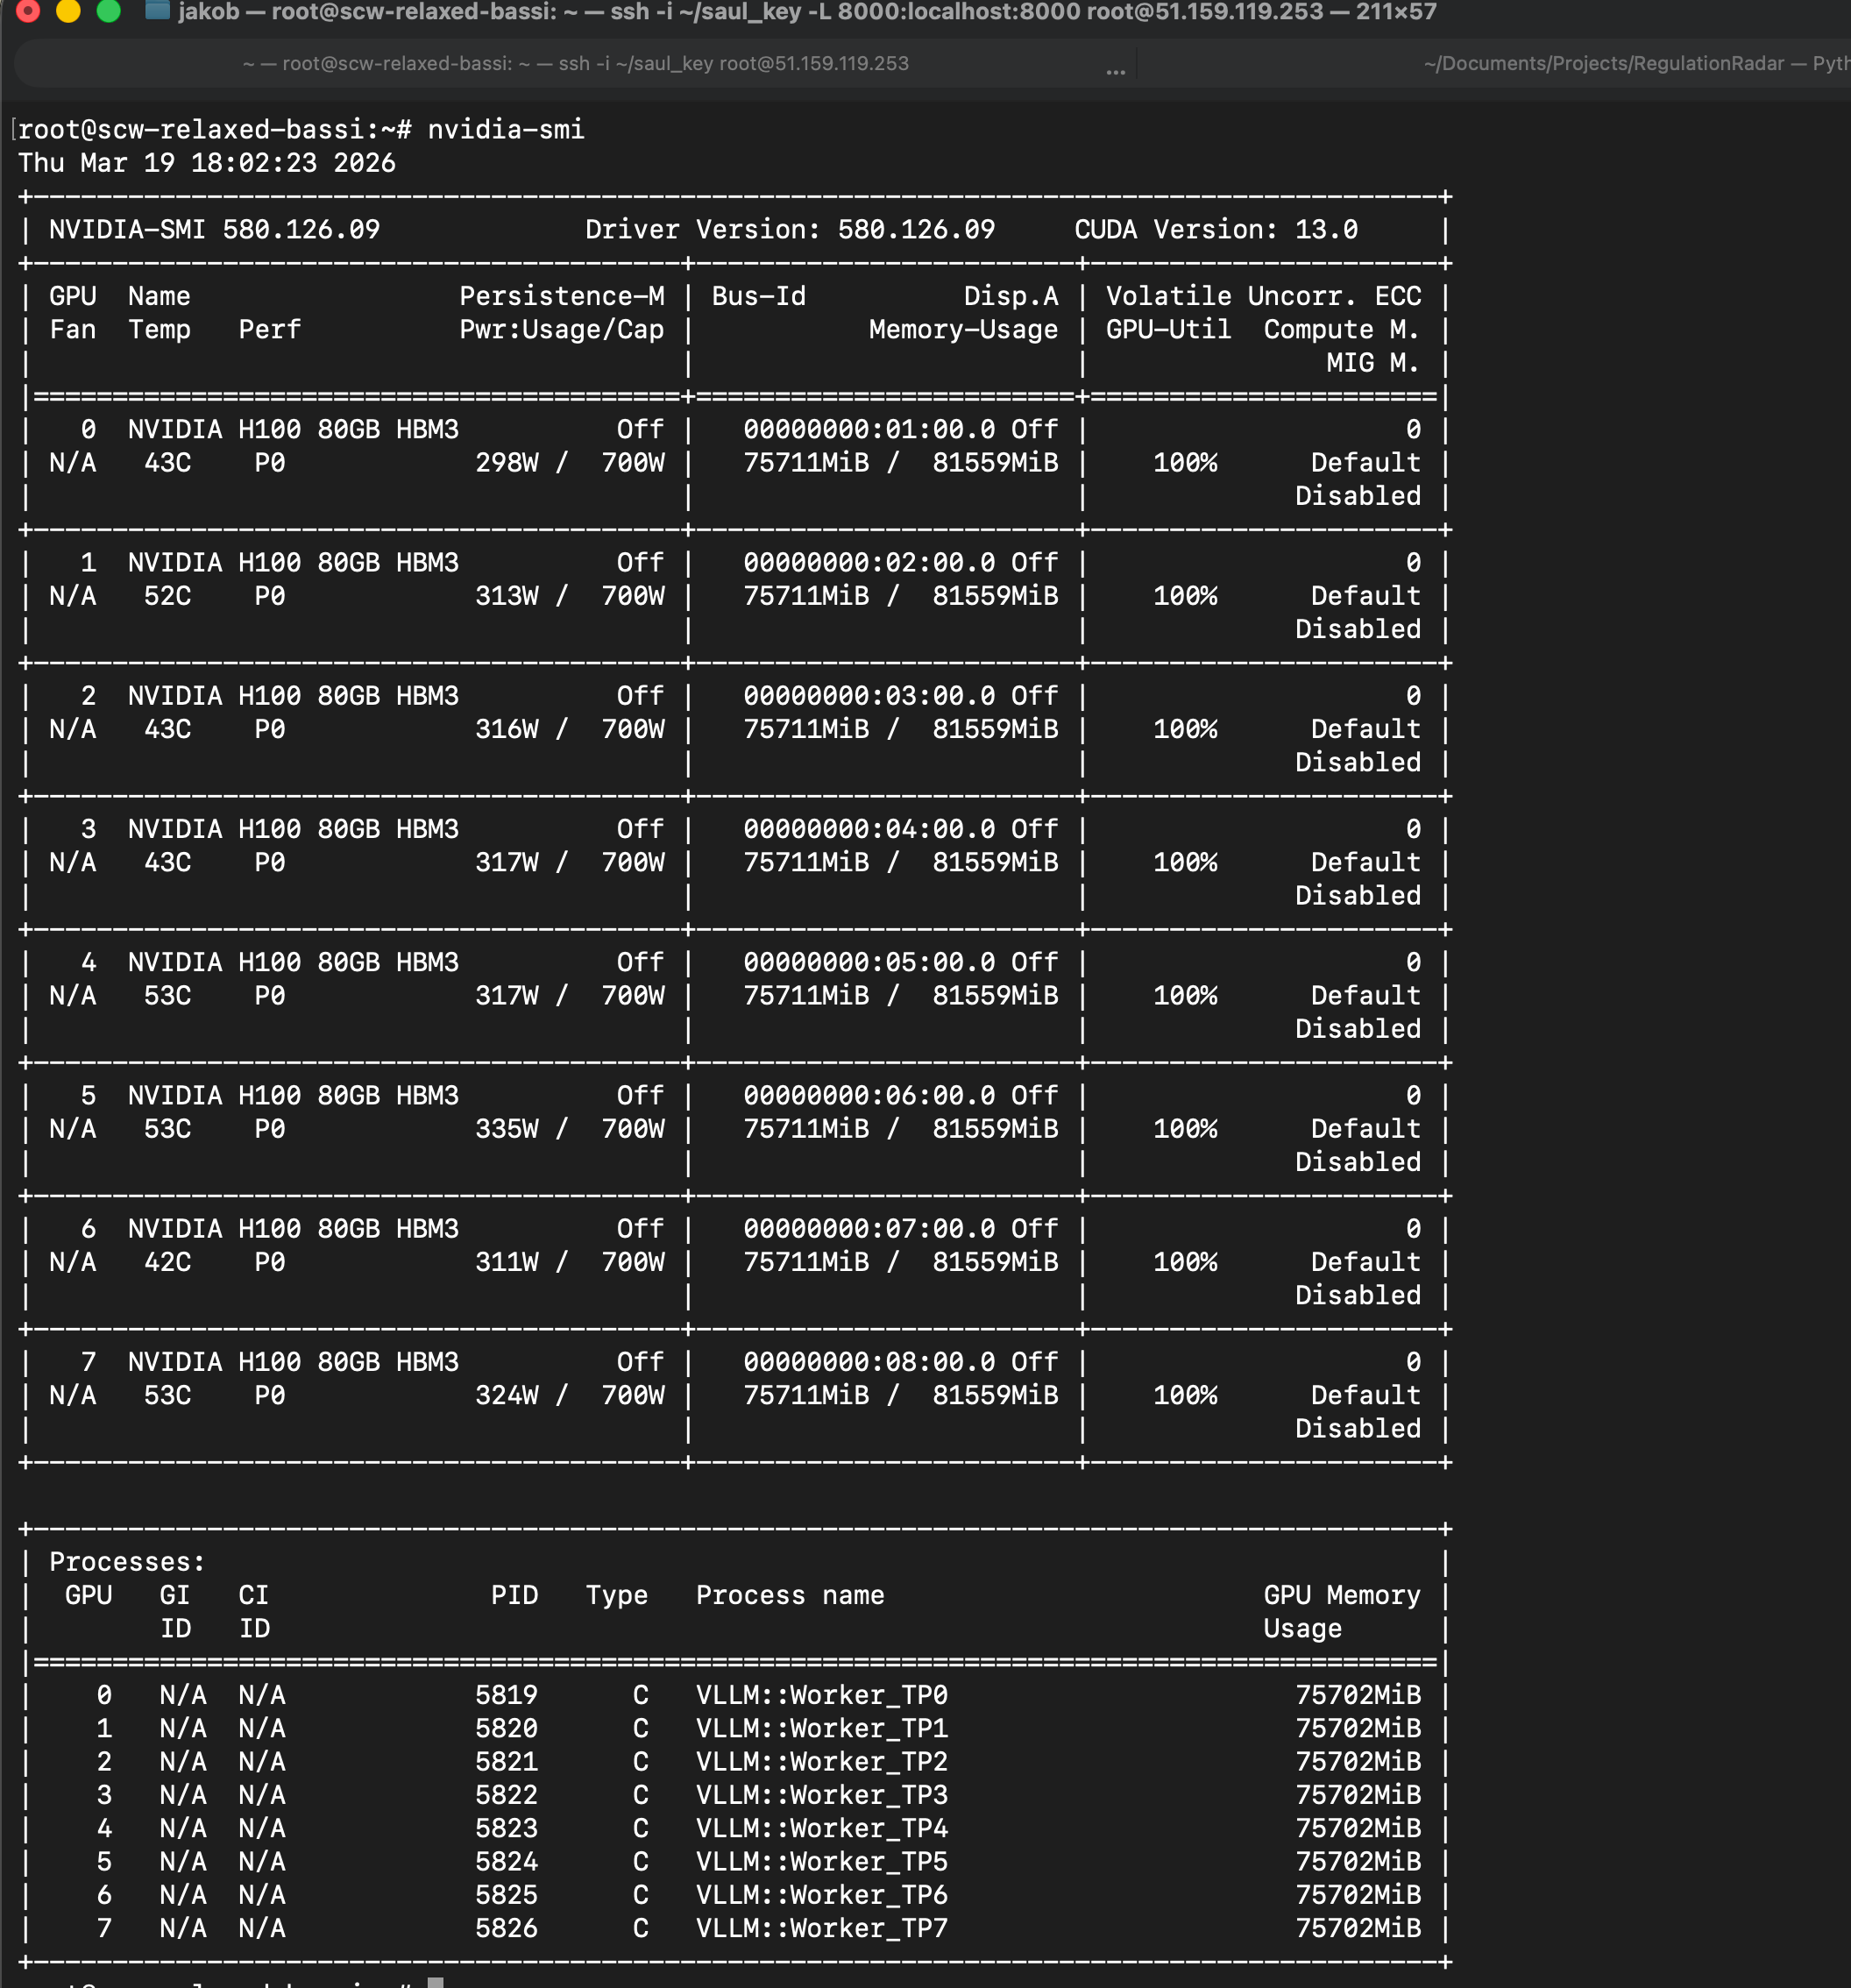
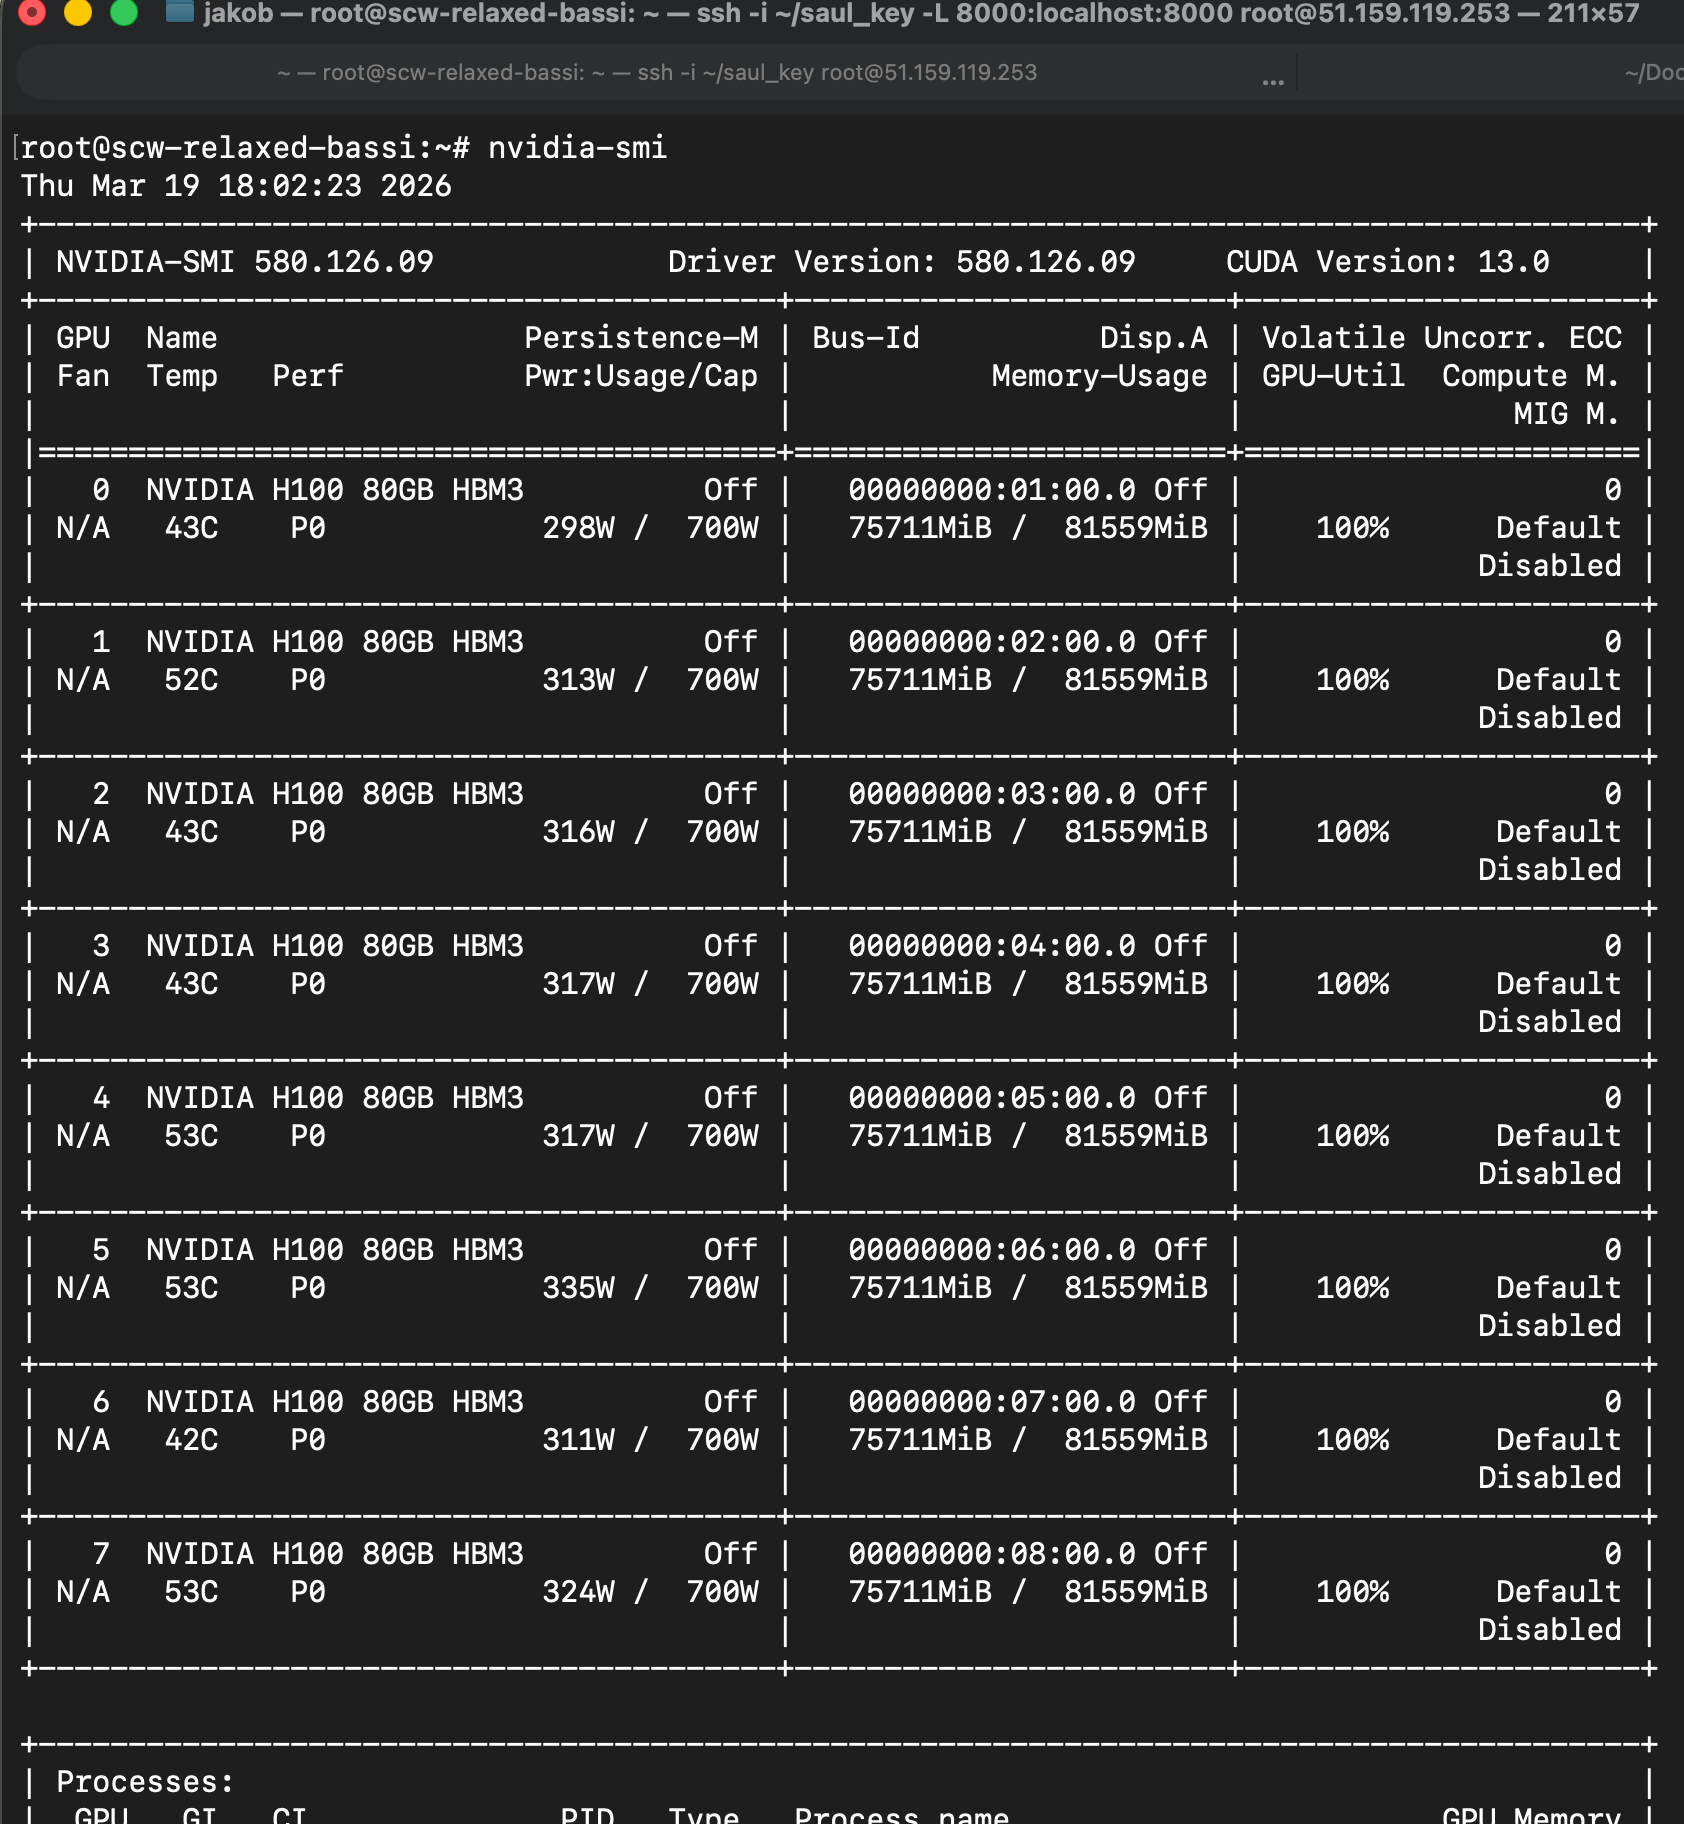
Regulation Radar: extensive article rewrite and new images
Restructure article with Alphaville tone throughout. Add SPARQL endpoint
and corpus screenshots. Rewrite Context, Off-the-Shelf, More Power,
Checking the Answer Key, and Where They Agree sections. Fix tags, links,
summary. Merge The Runs into previous section. Shorten So What.

diff --git a/src/content/notes/regulation-radar.md b/src/content/notes/regulation-radar.md
@@ -1,35 +1,38 @@
 ---
 title: "Regulation Radar: What Four LLMs Made of 890 EU Laws"
-summary: "The EU published 890 regulations in six months. Five million words. Professional librarians have been classifying them since 1995. We pointed four language models at the same pile – one running on a MacBook Air, three on eight Nvidia H100 GPUs – and checked their homework against the humans.<br><br><strong>Not a single regulation was classified the same way by all four models.</strong> But a 70B reasoning model that pauses to think before answering outperformed a 141B legal specialist trained specifically on law.<br><br>The biggest model was not the best. The most confident were not the most correct. And when the models did agree, they were usually right."
+summary: "The EU published 890 pieces of binding legislation in six months – over five million words of regulations, decisions, and directives. We pointed four language models at the pile and checked their classifications against the human librarians who have been tagging EU law since 1995.<br><br>Not one regulation was classified identically by all four models. A 70B reasoning model that pauses to think before answering outperformed a 141B legal specialist trained specifically on law. <strong>The biggest model was not the best, and the most confident were not the most correct.</strong><br><br>But when the models did agree with each other, they tended to <strong>agree with the humans too</strong> – which turned out to be the more interesting finding."
 date: "March 2026"
 published: 2026-03-20
 tags: ["eu-regulation", "cloud-gpu", "document-classification", "model-disagreement", "reasoning-models"]
-stack: ["Anthropic API", "EuroLLM-22B", "SaulLM-7B", "SaulLM-141B", "DeepSeek-R1:671B"]
+stack: ["EUR-Lex", "Anthropic API", "EuroLLM:22B", "SaulLM:141B", "DeepSeek-R1:671B"]
 ---
 
 ## Quick Brief
 
 - **Experiment:** Four open-source LLMs read 890 EU regulations and classified them by thematic domain and regulatory impact – one on a MacBook Air, three on eight Nvidia H100 GPUs on a rented machine in Paris, no external API involved. Where possible, results were compared against EuroVoc, the EU's own classification system.
-- **Why it matters:** LLMs can read regulation. That was never really in question. What actually matters is whether their output is consistent enough to act on, and what happens when you check it against human judgement.
-- **Key finding:** A reasoning model half the size of a legal specialist produced better classifications. On most regulations, the models agreed on the core subject – but not one was classified identically by all four. When they did agree, their accuracy against the human baseline went up. When they didn't, you needed a person.
+- **Why it matters:** The fact that LLMs can read regulation was never really in question. What actually matters is whether their output is consistent enough to act on – and what happens when you check it against human judgement.
+- **Key finding:** A 70B reasoning model that pauses to think before answering outperformed a 141B legal specialist trained specifically on law. On most regulations, the models agreed on the core subject – but not one was classified identically by all four. When they did agree, accuracy against the human baseline went up. When they didn't, a human in the loop becomes advisable.
 
 ## Context
 
 The neat thing about bureaucracies is that they produce vast amounts of structured text. Which, in theory, should make them ground zero for language models.
 
-In the six months to March 2026, the European Union published **890 pieces of binding legislation.** Over five million words of regulations, decisions, and directives – roughly ten times the length of *War and Peace*, published in six months.
+In the six months to March 2026 (17 September to 17 March, to be precise), the European Union published **890 pieces of binding legislation.** Over five million words of regulations, decisions, and directives – roughly ten times the length of *War and Peace*, published in half a year.
 
 Somebody has to read all of that.
 
-Every one of these 890 regulations is publicly available through <a href="https://eur-lex.europa.eu/content/welcome/about.html" target="_blank">EUR-Lex</a> – well-known to EU legal practitioners and largely invisible to everyone else. A <a href="https://publications.europa.eu/webapi/rdf/sparql" target="_blank">SPARQL endpoint</a> lets you query legislation like a database. A bulk download API called <a href="https://op.europa.eu/en/web/cellar" target="_blank">CELLAR</a> delivers full texts programmatically, in all 24 official EU languages, with structured metadata attached. It is, essentially, a very well-organised government filing cabinet with an API.
+All EU legislation is publicly available through <a href="https://eur-lex.europa.eu/content/welcome/about.html" target="_blank">EUR-Lex</a> – well-known to EU legal practitioners and largely invisible to everyone else. A <a href="https://publications.europa.eu/webapi/rdf/sparql" target="_blank">SPARQL endpoint</a> lets you query legislation like a database. A bulk download API called <a href="https://op.europa.eu/en/web/cellar" target="_blank">CELLAR</a> delivers full texts programmatically, in all 24 official EU languages, with structured metadata attached. A very well-organised government filing cabinet with an API.
 
-But a filing cabinet is only useful if you know what is in it. The EU doesn't just publish legislation – it **tags** it. Every regulation gets classified using <a href="https://op.europa.eu/en/web/eu-vocabularies/concept-scheme/-/resource?uri=http://eurovoc.europa.eu/100141" target="_blank">EuroVoc</a>, a controlled vocabulary of roughly 7,000 terms organised into **21 top-level thematic domains** – "Agriculture", "Trade", "Finance", "Energy", and so on. The tagging is done by professional librarians at the Publications Office, and has been running since 1995.
+![The EU's SPARQL endpoint – a query interface for legislation](/images/regulation-radar-sparql.png)
+*The filing cabinet. With an API.*
 
-A <a href="/notes/better-call-saullm" target="_blank">previous experiment</a> asked six models to classify ambiguous legal documents. They disagreed extensively – but there was no ground truth to grade against. This time, the librarians provided one. Sort of. EuroVoc classifications are derived – granular descriptors rolled up to 21 top-level domains – so the mapping is not always clean. But it is structured, consistent, and publicly available. Considerably better than no benchmark at all.
+But a filing cabinet is only useful if you know what is in it. Therefore, the EU doesn't just publish legislation – it **tags** it. Every regulation gets classified using <a href="https://op.europa.eu/en/web/eu-vocabularies/concept-scheme/-/resource?uri=http://eurovoc.europa.eu/100141" target="_blank">EuroVoc</a>, a controlled vocabulary of roughly 7,000 terms organised into **21 top-level thematic domains** – "Agriculture", "Trade", "Finance", "Energy", and so on. The tagging is done by professional librarians at the Publications Office, and has been running since 1995.
 
-890 regulations, a public taxonomy, and a human baseline to grade against. The conventional approach to regulatory monitoring is to give the documents to a junior associate, who reads them, highlights the important bits, and has ChatGPT open in a second tab. The unconventional approach is to notice that **the filing cabinet already has an API** – and that language models can read. You do not put a steam engine on a horse. You build a railway.
+A <a href="/notes/better-call-saullm" target="_blank">previous experiment</a> asked six models to classify ambiguous legal documents. They disagreed extensively – but there was no ground truth to grade against. This time, the librarians provided one, sort of – they tag each regulation with specific terms from EuroVoc's ~7,000 concept vocabulary, and those terms sit within a fixed hierarchy that maps them to the 21 top-level domains. The models were asked to pick domains directly. So the comparison is not quite apples to apples, but it is structured, consistent, and publicly available, which is considerably better than no benchmark at all.
 
-## The Pipeline
+The conventional approach to regulatory monitoring is to give the documents to a compliance officer, who reads them, asks ChatGPT which parts matter, and writes a summary (also with ChatGPT). The unconventional approach is to notice that **the filing cabinet already has an API** – and that language models can read. You do not put a steam engine on a horse. You build a railway.
+
+## The Railway
 
 Before any model reads anything, the data needs to arrive. The pipeline works in stages.
 
@@ -39,46 +42,47 @@ Before any model reads anything, the data needs to arrive. The pipeline works in
 
 **Stage 3: Classify.** Each regulation gets **two prompts.** The <a href="/classify-sectors.txt" target="_blank">first</a> asks the model to assign the document to one or more of the 21 EuroVoc domains – the thematic "what is this about?" question. The <a href="/classify-impact.txt" target="_blank">second</a> asks for an **impact assessment**: is this ROUTINE (an administrative amendment nobody outside a specific agency will notice), MODERATE (new requirements for a specific sector), or HIGH (significant new obligations across multiple sectors, major compliance deadlines – on the scale of an AI Act or GDPR)?
 
-**Stage 4: Route.** A deliberate system design choice. If a regulation is classified as **HIGH impact**, the pipeline does not just log it and move on. For the genuinely important regulations – the ones a compliance team would actually need to read – you want the best available model writing the briefing, not the cheapest one. So the system immediately routes that regulation to **Claude Sonnet** via the Anthropic API for a detailed editorial summary: what the regulation does, who is affected, what the deadlines are, and what the worst-case consequence looks like. (Claude Sonnet's exact parameter count and infrastructure are not public – it is a frontier model running on Anthropic's hardware, not something you replicate on a rented GPU cluster.) The cheap open-source model does triage on all 890 documents. The expensive frontier model only sees the ~15 that matter. **95% cost savings** versus routing everything through Claude.
+**Stage 4: Route.** If a regulation is classified as **HIGH impact**, the pipeline does not just log it and move on – it routes the document to **Claude Sonnet** via the Anthropic API for a detailed editorial summary: what the regulation does, who is affected, what the deadlines are, and what the worst-case consequence looks like. For the genuinely important regulations, you want the best available model writing the briefing, not the cheapest one. (We publish all hardware specs with utmost transparency. Anthropic does not.)
+
+In practice, the open-source models classified between 1 and 30 regulations as HIGH out of 890 – so roughly 1–3% of the corpus gets routed to the expensive model, with the cheap one handling the other 97–99%. The cost difference is not trivial.
 
 ![Pipeline: fetch, download, extract, classify domain, classify impact, route HIGH to Claude, evaluate](/images/regulation-radar-pipeline.svg)
-*The pipeline from query to classified corpus. The model is a swappable component – same pipeline, different model, different results.*
+*From SPARQL query to classified regulation. Swap the model, keep everything else.*
 
-The experiment: run this pipeline with **four different models** at the classification stage. Same 890 regulations, same two prompts, same routing logic. Then compare – with the humans, and with each other.
+The experiment: run this pipeline with **four different models** at the classification stage. Same 890 regulations, same two prompts, same temperature (0.1), same routing logic. Then compare – with the humans, and with each other.
 
 ## The Off-the-Shelf Option
 
-If you are going to build a system like this, the dream is running it in real time. A regulation gets published, the pipeline picks it up, and a classified, assessed, briefed result appears in seconds. No cloud costs, no data leaving the machine, no vendor dependency.
+Imagine this: a regulation gets published, and before you have finished your coffee, the pipeline has picked it up, classified it, assessed its impact, and produced a briefing – all on a laptop, no cloud costs, no data leaving the building.
 
-The constraints of a consumer machine make that dream distant. An Apple MacBook Air with **16 GB of unified memory** can realistically run models up to about 7 billion parameters in quantised form. That rules out anything above the small end of the model spectrum.
+That requires a model that actually fits on a laptop. An Apple MacBook Air with **16 GB of unified memory** can realistically run models up to about 7 billion parameters in quantised form, which rules out anything above the small end of the model spectrum. But small is still something.
 
-Since we are dealing with legal text, the choice fell on an old acquaintance: <a href="https://huggingface.co/papers/[phone redacted]" target="_blank">**SaulLM-7B**</a>, a legal-domain model fine-tuned on court rulings and legislative text. It is the smaller sibling of the 54B model from the <a href="/notes/better-call-saullm" target="_blank">previous experiment</a> – the one that needed an H100 to run. This one fits on a laptop.
+Since we are dealing with legal text, the choice fell on an old acquaintance: <a href="https://huggingface.co/papers/[phone redacted]" target="_blank">**SaulLM-7B**</a>, a legal-domain model fine-tuned on court rulings and legislative text. It is the smaller sibling of the 54B model from the <a href="/notes/better-call-saullm" target="_blank">previous experiment</a> – the one that needed an H100 to run. This one fits on a laptop. <a href="https://ollama.com/" target="_blank">**Ollama**</a> serves the model as a local API, using the M3's integrated GPU via Metal for inference.
 
-The local setup uses the same components as the previous experiments: <a href="https://ollama.com/" target="_blank">**Ollama**</a> handles model management and serves the model as a local API. On Apple Silicon, it uses **Metal** for GPU acceleration – the M3's integrated GPU, not just the CPU. The model is a swappable component in the pipeline: same code, same prompts, different model running underneath. The bottleneck is the model doing inference on the GPU, not RAM or CPU.
+![890 regulations downloaded and ready for classification](/images/regulation-radar-corpus.png)
+*890 regulations, downloaded and waiting. Each one gets two prompts – domain and impact.*
 
-It took **15 hours and 41 minutes.** Roughly one minute per regulation: read the preamble, classify by domain, assess impact, return a structured JSON response. 1,780 prompts total. Thirty watts.
+890 regulations, two prompts each, fed through a 7B model on a laptop. It took **15 hours and 41 minutes** to get through all 1,780 prompts – roughly one minute per regulation to read the preamble, classify by domain, assess impact, and return a structured JSON response. You start it before bed, and by morning the laptop has opinions about 890 pieces of EU legislation.
 
-That is slow enough that you would not want to sit and watch it, and fast enough that you can leave it running overnight and have results in the morning. But the real question is not speed – it is whether the results are any good. We will get to that shortly.
+Turns out, just because a MacBook Air *can* run a language model on EU legislation overnight does not mean it *should.*
 
-SaulLM-7B classified **30 regulations as HIGH impact** – more than any other model would. It rated 83% as MODERATE. Only 12% as ROUTINE. It produced 11 parse errors – documents where the model returned something other than valid JSON.
+Classifying hundreds of regulations at once – the actual use case for a regulatory monitoring system – requires something substantially more powerful than what fits in a laptop.
 
-The MacBook Air is a remarkable piece of engineering. But just because it *can* run a language model on EU legislation overnight does not mean it *should.*
+## "More Power!"
 
-The more interesting question is **when local hardware catches up.** Not just in intelligence – a 2028 model with 7B parameters will likely be smarter than a 2026 one, thanks to better distillation and training techniques. But more importantly, in **speed.** Apple's M-series chips have delivered roughly 3x the machine learning inference throughput from M1 to M4 in four years. If dedicated inference chips – something beyond Apple's Neural Engine – join CPUs and GPUs as standard laptop components, a specialised model before 2030 might process a regulation in a few seconds rather than a minute. That would bring the total from sixteen hours down to perhaps thirty minutes.
+The <a href="/notes/better-call-saullm" target="_blank">previous experiment</a> ran on a single Nvidia H100. This time, the plan was to test SaulLM-141B – twenty times the size of the laptop model – which does not fit on a single GPU. So what is better than one Nvidia H100? The answer, naturally, is eight Nvidia H100s.
 
-Fast enough to run over a coffee break? Maybe. Fast enough for real-time monitoring of incoming legislation? Not yet. And for batch processing at scale – classifying hundreds of regulations at once – there will remain a need for something more powerful than what fits in a laptop. Which brings us to the rented hardware.
+A <a href="https://www.scaleway.com/en/" target="_blank">Scaleway</a> GPU instance with that kind of quota required a short phone call with Paris to request approval – and a promise not to block the machine too long. At €23 per hour, one might assume they would have every incentive to let you keep it running, but apparently not.
 
-## More Power
+Request granted: **eight H100 SXMs**, eighty gigabytes of VRAM each, 640 GB total, connected via NVLink – a setup that could comfortably run most open-source models in existence, with one notable exception.
 
-If consumer hardware is not ready, specialised hardware should be. The question is whether throwing significantly more compute at the problem produces significantly better results – or just the same mediocre output, faster.
+With the clock ticking, the first order of business was downloading 1.3 terabytes of model weights from <a href="https://huggingface.co/" target="_blank">Hugging Face</a> – 35 minutes of eight GPUs sitting completely idle. The inference server of choice was <a href="https://docs.vllm.ai/" target="_blank">**vLLM**</a> with **tensor parallelism**: the model's weights split across all eight GPUs so they work together as one, which is what makes 140-billion-parameter models possible on hardware with 80 GB per GPU.
 
-For the three remaining models, we rented a <a href="https://www.scaleway.com/en/" target="_blank">Scaleway</a> GPU instance in Paris. **Eight Nvidia H100 SXMs.** Eighty gigabytes of VRAM each, 640 GB total, connected via NVLink – a setup that could comfortably run most open-source models in existence (with one notable exception, as we would discover).
+The pipeline code is identical to the laptop setup – same prompts, same routing logic – with the model endpoint swapped from a local Ollama server to the remote vLLM instance. No third-party API, no data shared externally.
 
-At €23 per hour, the clock was ticking from the moment the instance booted. The inference server was <a href="https://docs.vllm.ai/" target="_blank">**vLLM**</a> with **tensor parallelism** – meaning the model's weights are split across all eight GPUs so they work together as one, rather than each card running its own copy. This is what makes 140-billion-parameter models possible on hardware that only has 80 GB per card. The same pipeline code runs as on the laptop, with the model endpoint swapped from a local Ollama server to the remote vLLM instance. No external API, no data leaving the machine – the models run on rented hardware under our full control.
+Three models, ran sequentially:
 
-Three models, run sequentially:
-
-<a href="https://huggingface.co/blog/eurollm-team/eurollm-22b" target="_blank">**EuroLLM-22B**</a> – yes, the EU funded the training of its own language model. Trained on all 24 official EU languages as part of the <a href="https://eurollm.eu/" target="_blank">EuroLLM project</a>, a consortium of European research institutions. This is the institutional candidate: the EU's model reading the EU's regulations.
+<a href="https://huggingface.co/blog/eurollm-team/eurollm-22b" target="_blank">**EuroLLM-22B**</a> – yes, the EU funded the training of its own language model. Trained on all 24 official EU languages as part of the <a href="https://eurollm.io/" target="_blank">EuroLLM project</a>, a consortium of European research institutions. This is the institutional candidate: the EU's model reading the EU's regulations.
 
 <a href="https://huggingface.co/Equall/SaulLM-141B-Instruct" target="_blank">**SaulLM-141B**</a> – the big sibling of the laptop model. Same legal training data, twenty times the parameters. The expectation was straightforward: bigger model, same specialisation, better results.
 
@@ -92,19 +96,24 @@ The cluster has 640 GB.
 
 Three attempts were made. Each produced an out-of-memory crash at the model-loading stage – before a single token of regulation was read. The weights themselves filled the GPUs to 98.7% capacity with zero bytes left for anything else. The model physically did not fit.
 
-The pivot was <a href="https://huggingface.co/deepseek-ai/DeepSeek-R1-Distill-Llama-70B" target="_blank">**DeepSeek-R1-Distill-Llama-70B**</a> – the largest distilled reasoning variant. Distillation works like this: DeepSeek ran their full 671B model on a large set of problems, collected all the step-by-step reasoning traces it produced, and then used those traces as training data to teach a smaller model to reason the same way. The "student" in this case is **Meta's Llama 3 70B** – an American base model that learned Chinese-style chain-of-thought reasoning. At ~140 GB, it loaded with room to spare.
+The pivot was <a href="https://huggingface.co/deepseek-ai/DeepSeek-R1-Distill-Llama-70B" target="_blank">**DeepSeek-R1-Distill-Llama-70B**</a> – the largest distilled reasoning variant. Distillation works like this: DeepSeek ran their full 671B model on a large set of problems, collected all the step-by-step reasoning traces it produced, and then used those traces as training data to teach a smaller model to reason the same way (<a href="https://arxiv.org/pdf/2501.12948" target="_blank">paper</a>). The "student" in this case is **Meta's Llama 3 70B** – an American base model that learned Chinese-style chain-of-thought reasoning. At ~140 GB, it loaded with room to spare.
 
 Why include a reasoning model at all? Most classification tasks do not require chain-of-thought. You read the text, you assign a label. But EU regulation is not always straightforward – a regulation about carbon border adjustments touches "Energy", "Trade", "Environment", and possibly "Industry" depending on how you read it. A model that **thinks through the ambiguity before committing to an answer** might handle those multi-domain cases better than one that just pattern-matches. This model produces visible `<think>` tokens – you can literally watch it reason, step by step, before it gives its final classification.
 
-## The Runs
-
 All three GPU models finished in about half an hour each.
 
-![Eight H100 GPUs completely idle – 0 MiB, 0%](/images/regulation-radar-gpu-idle.png)
-*Eight H100s sitting empty. 0 MiB VRAM, 0% utilisation, ~120 watts each.*
+<div class="gpu-slider" style="position:relative;max-width:100%;overflow:hidden;border:1px solid #ddd;border-radius:4px;user-select:none;">
+<img src="/images/regulation-radar-gpu-loaded.png" alt="After: 8 H100 GPUs at full load – 75 GB VRAM each" style="width:100%;display:block;" />
+<div class="gpu-slider-overlay" style="position:absolute;top:0;left:0;width:50%;height:100%;overflow:hidden;pointer-events:none;">
+<img src="/images/regulation-radar-gpu-idle.png" alt="Before: 8 H100 GPUs idle – 0 MiB VRAM" style="display:block;min-width:100%;width:100%;height:100%;object-fit:cover;" />
+</div>
+<div style="position:absolute;top:0;bottom:0;left:50%;width:3px;background:#8C6239;pointer-events:none;z-index:5;" class="gpu-slider-line"></div>
+<input type="range" min="0" max="100" value="50" style="position:absolute;top:0;left:0;width:100%;height:100%;opacity:0;cursor:ew-resize;z-index:10;margin:0;" />
+<div style="position:absolute;top:8px;left:8px;background:rgba(0,0,0,0.6);color:#fff;padding:2px 8px;border-radius:3px;font-size:0.75rem;pointer-events:none;">Before</div>
+<div style="position:absolute;top:8px;right:8px;background:rgba(0,0,0,0.6);color:#fff;padding:2px 8px;border-radius:3px;font-size:0.75rem;pointer-events:none;">After</div>
+</div>
 
-![All 8 GPUs at 100% utilization, 75 GB VRAM each](/images/regulation-radar-gpu-loaded.png)
-*Model loaded. 75 GB per card, all eight at full utilisation. €23 per hour well spent.*
+*Drag to compare. Eight H100s idle versus eight H100s at full utilisation.*
 
 **EuroLLM-22B:** 30.7 minutes, zero errors across 1,780 prompts. It classified 79% of regulations as ROUTINE and flagged exactly **one** as HIGH impact.
 
@@ -114,18 +123,16 @@ All three GPU models finished in about half an hour each.
 
 ## Checking the Answer Key
 
-Before looking at how the models compare to each other, the first question is: **how do they compare to the humans?**
+Four models have now classified 890 regulations. They were fast, they were confident, and they all produced structured output. The question nobody has answered yet: **were any of them right?**
 
-Each regulation in the EU corpus is tagged with one or more of the 21 EuroVoc domains by professional librarians. Each model was asked to do the same thing. The overlap between a model's domain assignments and the human assignments gives us a score: 1.0 would mean perfect agreement with the librarians. 0.0 would mean no overlap at all.
+The librarians at the Publications Office have been tagging these regulations for thirty years. Their domain assignments are the closest thing to a ground truth we have – not perfect, since they tag at the granular level and we map to the 21 top-level domains, but structured, consistent, and considerably better than guessing. The overlap between a model's assignments and the librarians' gives us a score: 1.0 would mean perfect agreement. 0.0 would mean the model might as well have picked domains at random.
 
-A reminder: this ground truth is **derived**. The librarians assign granular concept descriptors from a ~7,000-term vocabulary, which get rolled up to the 21 top-level domains. It is a reasonable benchmark, not a perfect one.
-
-| Model | Params | Runtime | Overlap with humans |
-|---|:---:|:---:|:---:|
-| SaulLM-7B (MacBook) | 7B | 940 min | 0.33 |
-| EuroLLM-22B (H100 x8) | 22B | 30.7 min | 0.47 |
-| SaulLM-141B (H100 x8) | 141B | ~34 min | 0.50 |
-| **DeepSeek-R1-70B (H100 x8)** | **70B** | **~31 min** | **0.56** |
+| Model | Params | Hardware | Runtime | Overlap with humans |
+|:---:|:---:|:---:|:---:|:---:|
+| SaulLM-7B | 7B | MacBook Air M3 | 940 min | 0.33 |
+| EuroLLM-22B | 22B | H100 x8 | 30.7 min | 0.47 |
+| SaulLM-141B | 141B | H100 x8 | ~34 min | 0.50 |
+| **DeepSeek-R1-70B** | **70B** | **H100 x8** | **~31 min** | **0.56** |
 
 *Overlap with humans: how closely each model's domain assignments match the librarians' classifications. 1.0 = perfect match, 0.0 = no overlap. DeepSeek is bold because it won.*
 
@@ -133,7 +140,7 @@ A reminder: this ground truth is **derived**. The librarians assign granular con
 
 The size ordering would predict: 141B > 70B > 22B > 7B. The actual ordering is: **70B > 141B > 22B > 7B.** More parameters did not compensate for not thinking.
 
-But 0.56 is not exactly a ringing endorsement. The best model agrees with the human librarians just over half the time. That raises the question of *where* it agrees and where it doesn't.
+But 0.56 is not exactly a ringing endorsement. If the best model assigns five domains to a regulation, roughly two or three of them will match the librarians' choices – and the rest won't. Good enough to tell you what a regulation is broadly about. Not good enough to replace the person who reads it.
 
 ### Domain-level overlap with human classifications
 
@@ -167,27 +174,25 @@ But 0.56 is not exactly a ringing endorsement. The best model agrees with the hu
 <tr><td style="font-size:0.78rem;">Science</td><td style="text-align:center;color:#888;">24</td><td style="text-align:center;background:rgba(180,40,40,0.25);border-radius:2px;font-family:monospace;font-size:0.76rem;">12%</td><td style="text-align:center;background:rgba(180,40,40,0.25);border-radius:2px;font-family:monospace;font-size:0.76rem;">8%</td><td style="text-align:center;background:rgba(180,40,40,0.25);border-radius:2px;font-family:monospace;font-size:0.76rem;">8%</td><td style="text-align:center;background:rgba(180,40,40,0.25);border-radius:2px;font-family:monospace;font-size:0.76rem;">15%</td></tr>
 </tbody></table>
 
-*Each cell shows how well a model captures a specific domain compared to the human librarians. Darker = better overlap. Some domains ("Agriculture", "International Relations") are consistently well-captured. Others ("Science", "Education") are missed by everyone.*
+*Darker green = closer to the librarians. "Agriculture" and "International Relations" are easy. "Science" and "Education" are near-invisible to all four models.*
 
 ## Where They Agree
 
-Each regulation can belong to multiple domains at once – a regulation on agricultural trade subsidies might correctly belong to "Agriculture", "Trade", and "Economics" simultaneously. Each model assigns its own combination of 2 to 6 domains per regulation. The question is whether those combinations overlap.
+Here is the number that sounds worst: across all 890 regulations, **not a single one** was classified with the exact same set of domains by all four models. Zero. None.
 
-Across all 890 regulations, not a single one was classified with the *exact same* set of domains by all four models. That sounds like total disagreement. It is not.
+That sounds like total disagreement, but it is not. A regulation can belong to multiple domains at once – a regulation on agricultural trade subsidies might correctly belong to "Agriculture", "Trade", and "Economics" simultaneously. Each model picks its own combination of 2 to 6 domains. With 21 possible domains, the chances of four models independently landing on the exact same combination are vanishingly small. But that does not mean they disagree on what the regulation is *about*.
 
-Think of it this way: with 21 possible domains and each model picking a different number, the chances of four models independently landing on the exact same combination are vanishingly small. But that does not mean they disagree on what the regulation is *about*.
+On **57% of regulations, all four models agreed on at least one domain** – they all identified the same core subject. On **98%**, at least three out of four found common ground. The disagreement is about **breadth**, not about core subjects. A sanctions regulation gets tagged "International Relations" by everyone. The debate is whether it also gets "Trade", "Energy", "Politics", or all three.
 
-On **57% of regulations, all four models agreed on at least one domain** – they all identified the same core subject. On **98%, at least three out of four** agreed on at least one domain. On every single regulation without exception, at least two models found common ground. The disagreement is about **breadth**, not about core subjects. A sanctions regulation gets tagged "International Relations" by everyone. The debate is whether it also gets "Trade", "Energy", "Politics", or all three.
+Which brings us to the finding the experiment was built to test: on the documents where models substantially agreed, **accuracy against the human ground truth was 29% higher** than on the documents where they diverged. When all four models converge on a domain, that domain tends to match what the librarians assigned. When they split, the classifications drift.
 
-And here is the finding the experiment was built to test: on the documents where models substantially agreed, **accuracy against the human ground truth was 29% higher** than on the documents where they diverged. The sample is small – only 5 documents out of 826 crossed the high-agreement threshold. But the direction is consistent.
-
-**When the models agree, the agreement tends to mean something. When they don't, that is where you need a human.**
+In other words: multi-model agreement is a better predictor of correctness than any single model's confidence score. And when the models don't agree, that is exactly where you want a human looking at the document.
 
 ## The Impact Question
 
-So far, we have been comparing domain classifications against a human benchmark. The models overlap with the librarians roughly half the time – imperfect but structured. The next question has no answer key: **how do the models assess regulatory impact?**
+Everything above had an answer key – imperfect, derived, but real. The next question has none: **how do the models assess regulatory impact?**
 
-EuroVoc does not tag regulations as "high-impact" or "routine". There is no ground truth to grade against here. We can only compare the models to each other – and they do not agree.
+EuroVoc does not tag regulations as "high-impact" or "routine". There is no ground truth here. We can only compare the models to each other – and they do not agree.
 
 <table>
 <thead><tr><th></th><th style="text-align:center;">SaulLM-7B</th><th style="text-align:center;">EuroLLM-22B</th><th style="text-align:center;">SaulLM-141B</th><th style="text-align:center;">DeepSeek-R1 70B</th></tr></thead>
@@ -206,9 +211,9 @@ SaulLM-7B sees danger everywhere. EuroLLM sees almost none. A regulatory monitor
 
 **Reasoning beats size.** A 70B model with chain-of-thought outperformed a 141B legal specialist on every metric. The model that thinks before answering gives better answers. More parameters did not compensate for not thinking.
 
-**Agreement is rare but structured.** Zero exact-match agreement, but 57% convergence on core domains. When models converge, accuracy goes up. Multi-model agreement is a better signal than any single model's confidence score.
-
 **Confidence is decorative.** All four models reported confidence above 0.85 on virtually every classification – including the wrong ones, and including the ones where they flatly contradicted each other. On tasks of this complexity, self-reported confidence measures rhetorical commitment, not correctness. The <a href="/notes/better-call-saullm" target="_blank">previous experiment</a> found the same thing: every model reported 90–100% confidence, including on the cases where they disagreed with each other.
+
+**Agreement is rare but structured.** Zero exact-match agreement, but 57% convergence on core domains. When models converge, accuracy goes up. Multi-model agreement is a better signal than any single model's confidence score.
 
 **Local hardware is not ready.** A 7B model on a MacBook takes sixteen hours and produces the worst results by a wide margin. The trajectory suggests a consumer laptop before 2030 could do meaningfully better. Whether it will be fast enough for real-time use remains to be seen.
 
@@ -221,12 +226,10 @@ A note on the electricity: the MacBook ran at 30 watts for sixteen hours. The GP
 
 ## So What
 
-EU regulation is an almost unreasonably good test case for language model classification. Clean documents, public ground truth, stable taxonomy, high volume. If LLMs are going to work anywhere in regulatory monitoring, they should work here.
+EU regulation is an almost unreasonably good test case for language model classification. Clean documents, public ground truth, stable taxonomy, high volume. If LLMs are going to work anywhere in regulatory monitoring, they should work here. Under those near-ideal conditions, the best model agreed with the human baseline just over half the time.
 
-Under those near-ideal conditions, the best model overlapped with the human baseline **just over half the time.** That is nowhere near replacing the professional librarians who maintain EuroVoc.
+Replacement is the wrong frame. The more useful question is whether LLM output, aggregated across multiple models, can tell you *where to look.* A regulation that all four models agree on probably does not need a human to review. A regulation where they split 2–2 probably does.
 
-But replacement is the wrong frame. The more useful question is whether LLM output, aggregated across multiple models, can tell you *where to look.* A regulation that all four models agree on probably does not need a human to review. A regulation where they split 2–2 probably does. And a system that flags the disagreements – rather than presenting a single model's confident verdict as fact – is more honest about what these models can and cannot do.
-
-890 regulations. Four models. Five million words. The ones on rented GPUs finished in under two hours; the one on a laptop took overnight. They are cheap relative to human review at scale. And their disagreements are structured enough to be useful – if you build around them rather than ignoring them.
+Four models processed five million words of regulation – the three on rented GPUs in under two hours, the one on a laptop overnight. Their disagreements are structured enough to be useful – if you build around them rather than ignoring them.
 
 Which, to be fair, is also true of most bureaucrats.